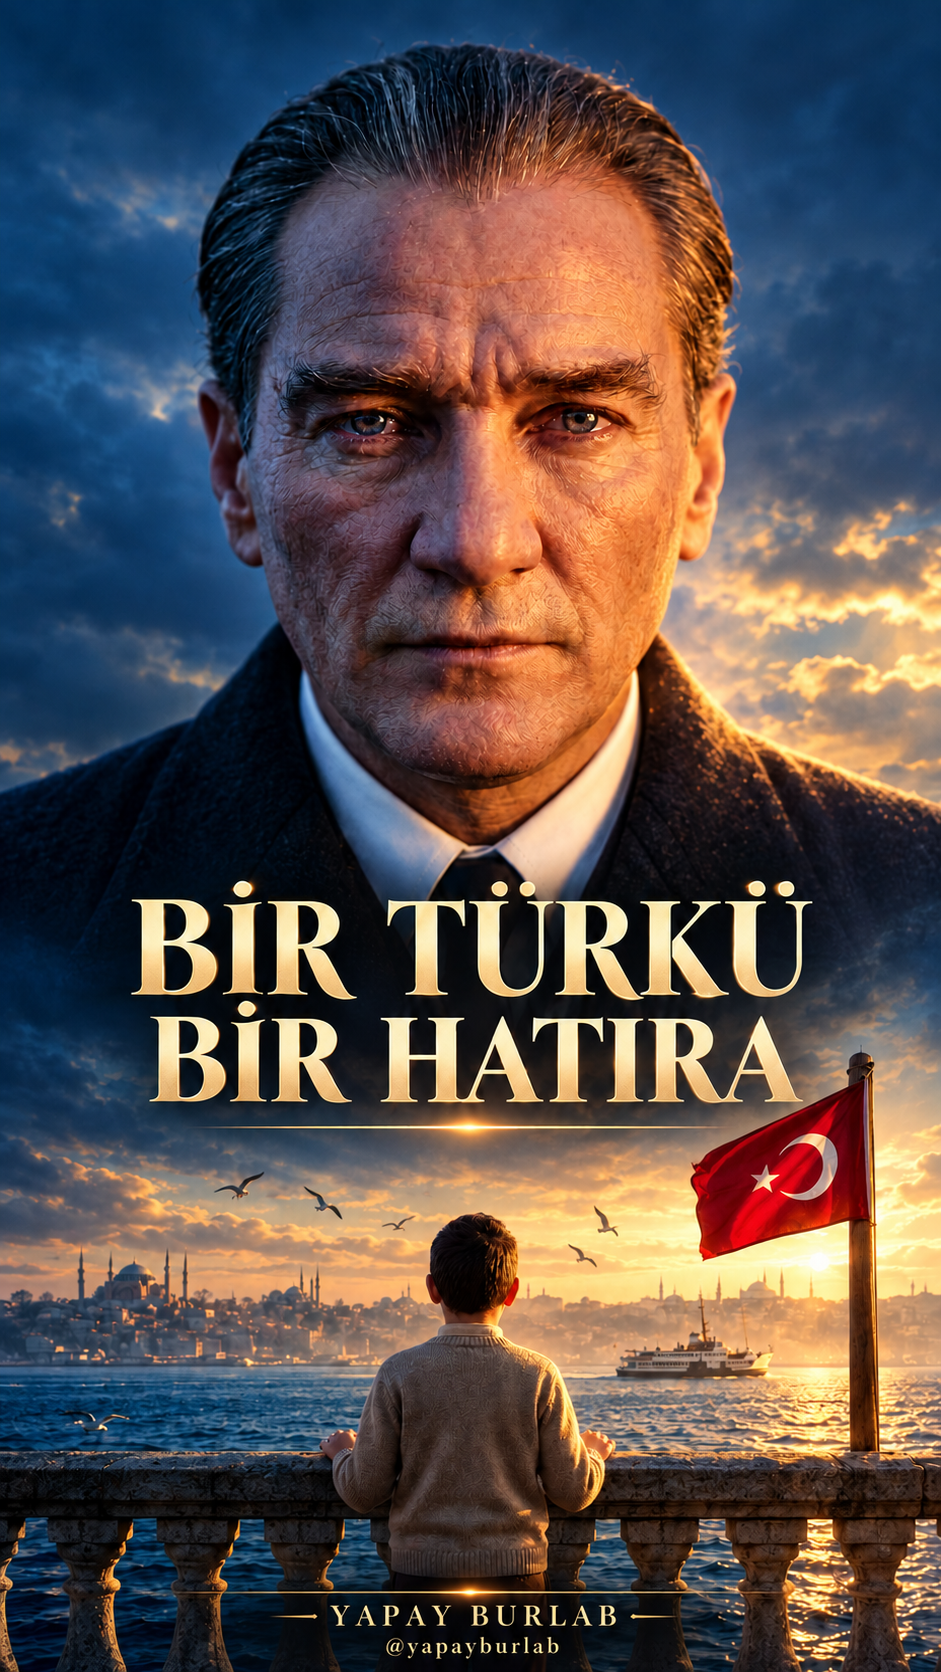
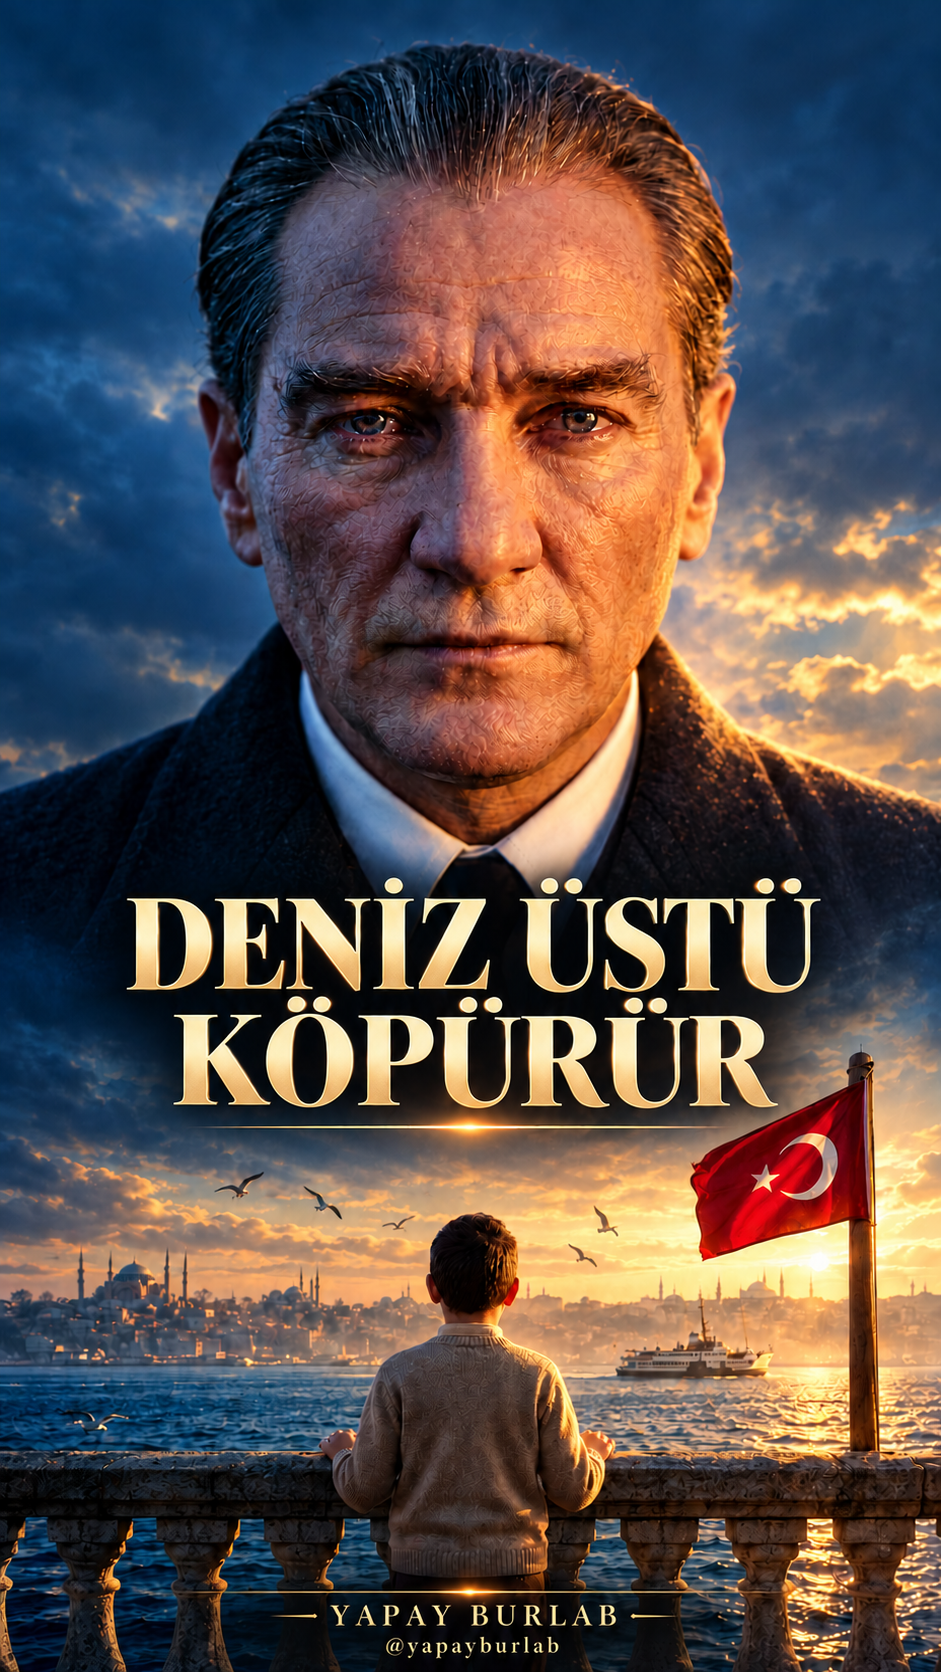
Update DENIZ cover with song title

diff --git a/deniz/index.html b/deniz/index.html
@@ -60,7 +60,7 @@ hr{border:0;border-top:1px solid var(--cizgi);margin:28px 0}
 <p>Gerçekçi yapay zekâ görüntüsü ve sesini açıklamada belirt. YouTube yüklemesinde AI kullanımı alanını Evet seç. TikTok ve Instagram yükleme ekranındaki uygun AI açıklamasını kullan. Menü adları sürüme göre değişebilir. Müzik ve kayıt haklarını ayrıca kontrol et; AI etiketi telif izni yerine geçmez.</p>
 <p>Kaynaklar: <a href="https://support.google.com/youtube/answer/14328491" target="_blank" rel="noopener">YouTube AI açıklaması</a> · <a href="https://support.tiktok.com/en/using-tiktok/creating-videos/ai-generated-content" target="_blank" rel="noopener">TikTok AI içerik bilgisi</a> · <a href="https://flow.google.com/" target="_blank" rel="noopener">Google Flow</a> · <a href="https://openart.ai/" target="_blank" rel="noopener">OpenArt</a></p>
 <p>Yapım ve kurgu: Yapay BurLab · @yapayburlab</p>
-<p>İş birliği: yapayburlab@hotmail.com</p><h2>Kapak örneği</h2><figure><img src="kapak.png" alt="Mavi ve altın ışıkta Atatürk AI portresi; aşağıda denize bakan çocuk ve Türk bayrağı. Bir Türkü Bir Hatıra başlığı."><figcaption>Sanatsal yapay zekâ canlandırması için hazırlanan dikey kapak.</figcaption></figure><p><a href="rehber.md" download>Rehber metnini indir</a></p><footer>Yapay Zekânın Gücü, Üretimin Geleceği! · YouTube · Instagram · TikTok: <b>@yapayburlab</b><br>
+<p>İş birliği: yapayburlab@hotmail.com</p><h2>Kapak örneği</h2><figure><img src="kapak.png" alt="Mavi ve altın ışıkta Atatürk AI portresi; aşağıda denize bakan çocuk ve Türk bayrağı. Deniz Üstü Köpürür başlığı."><figcaption>Sanatsal yapay zekâ canlandırması için hazırlanan dikey kapak.</figcaption></figure><p><a href="rehber.md" download>Rehber metnini indir</a></p><footer>Yapay Zekânın Gücü, Üretimin Geleceği! · YouTube · Instagram · TikTok: <b>@yapayburlab</b><br>
 İş birliği: <a href="mailto:yapayburlab@hotmail.com">yapayburlab@hotmail.com</a><br>Bu sayfa Yapay BurLab Fabrikası'nda hazırlandı; içerik yapay zekâ destekli üretildi ve kontrol edildi.</footer>
 </div><script>function kopyala(b){navigator.clipboard.writeText(b.nextElementSibling.innerText).then(()=>{b.textContent='Kopyalandı ✓';setTimeout(()=>b.textContent='Kopyala',1500)})}
 const a=document.querySelector('.ara');if(a)a.oninput=()=>{const q=a.value.toLocaleLowerCase('tr');document.querySelectorAll('a.kart').forEach(k=>k.style.display=k.dataset.k.includes(q)?'':'none')}</script></body></html>
